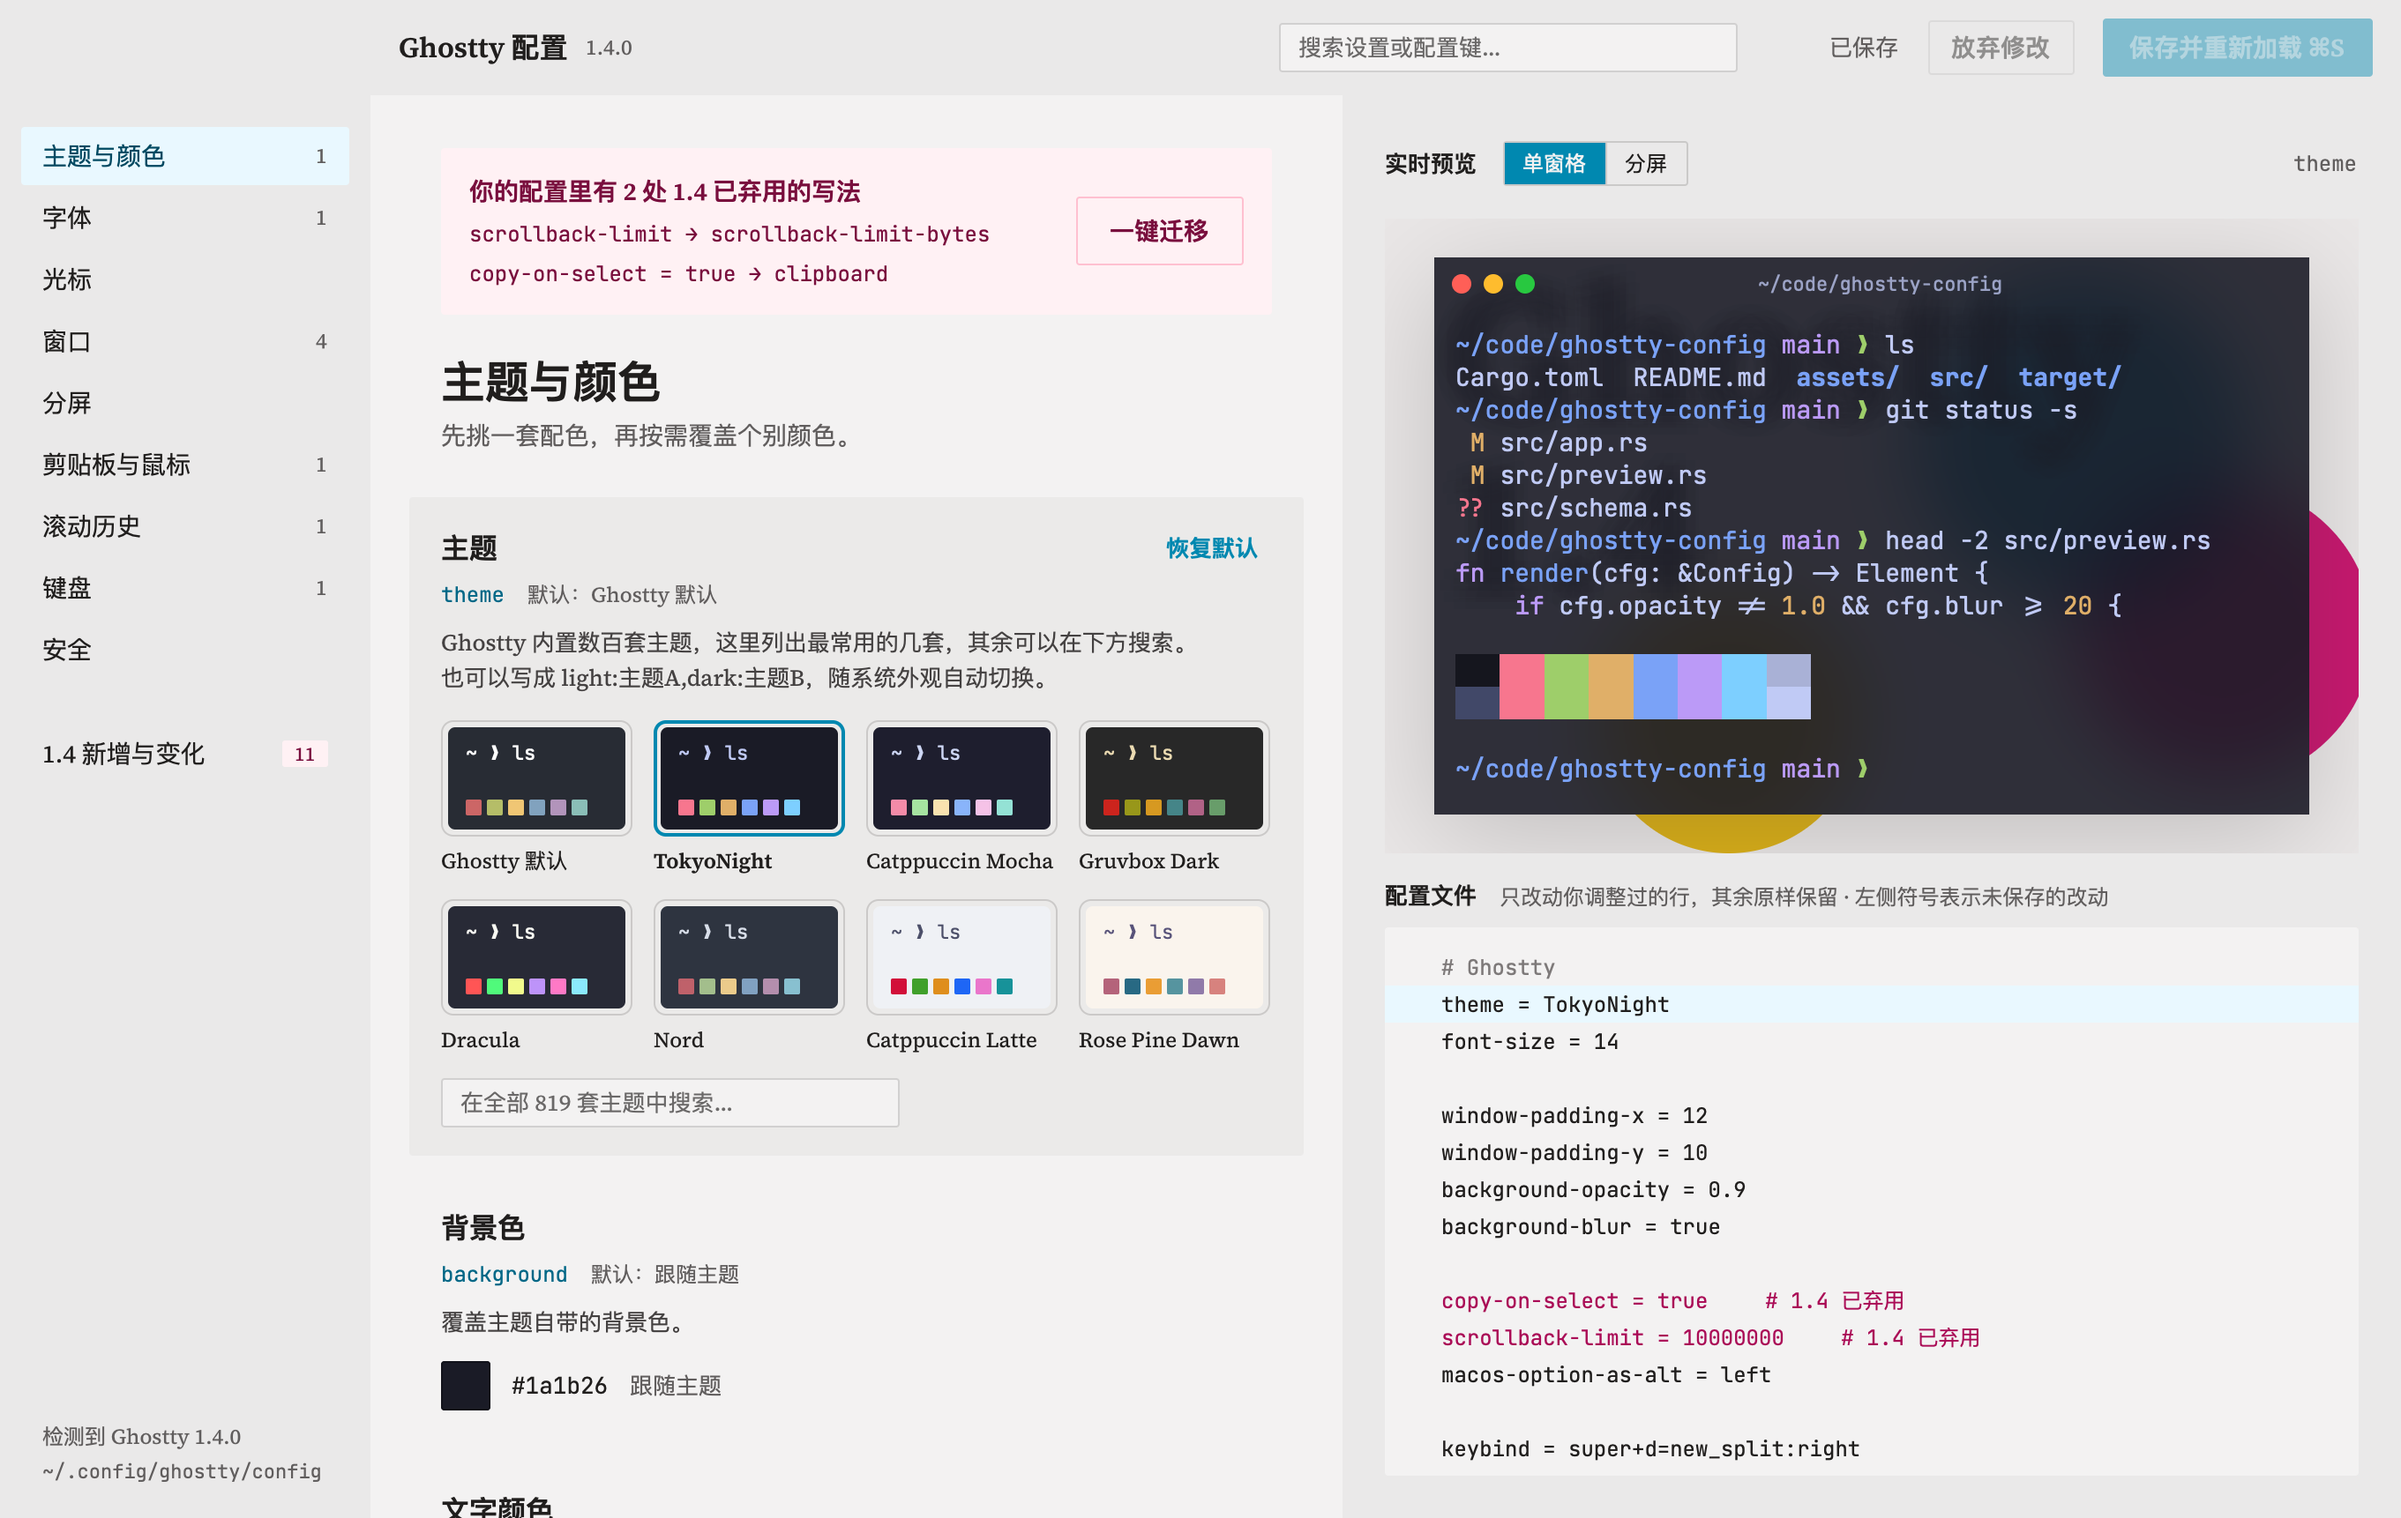
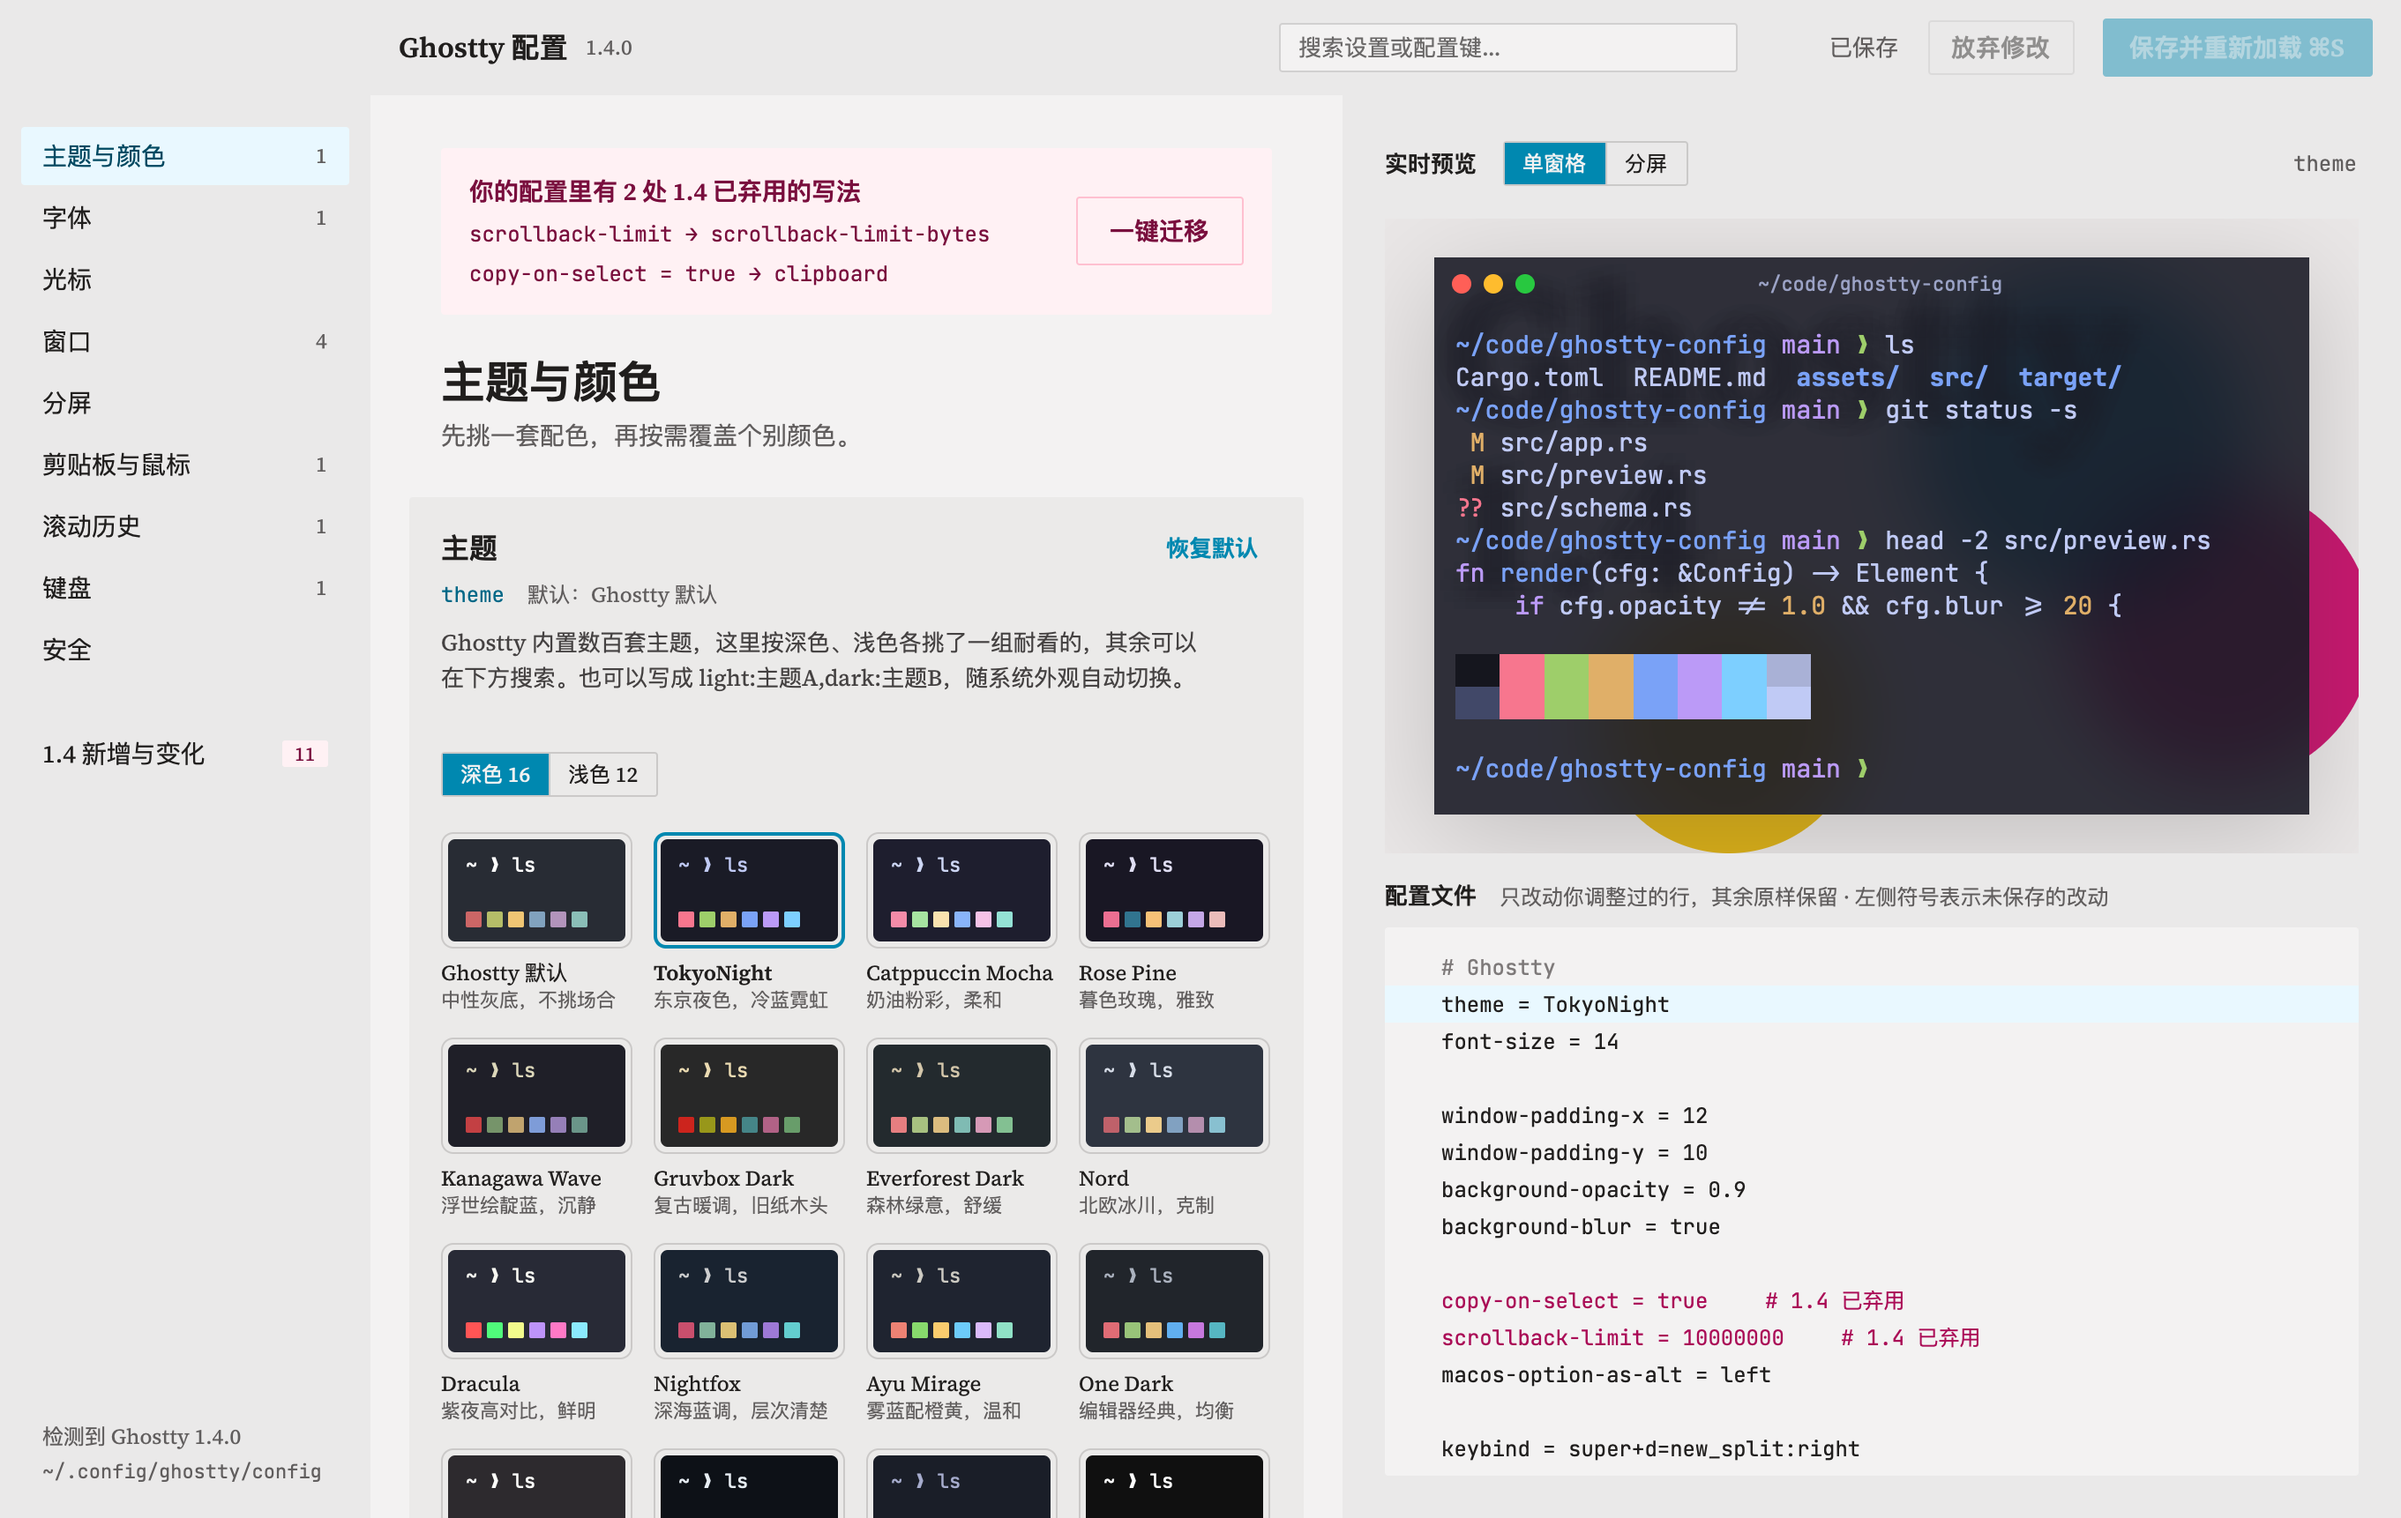
主题：按深色 16 套、浅色 12 套精选，附风格描述

Changed region(s): [[0.1874, 0.4001, 0.5309, 1.0]]

diff --git a/src/rows.rs b/src/rows.rs
@@ -12,16 +12,39 @@ use crate::kit::{Btn, SegItem, Tag, button, radio_dot, seg, tag};
 use crate::schema::{self, Kind, Num, OPTS, Opt, Val};
 use crate::theme::{MONO, Pal, PalExt as _, RADIUS_LG, RADIUS_MD, rgbc};
 
-/// The design's eight: (value, name).
-const FEATURED: &[(&str, &str)] = &[
-    ("", "Ghostty 默认"),
-    ("TokyoNight", "TokyoNight"),
-    ("Catppuccin Mocha", "Catppuccin Mocha"),
-    ("Gruvbox Dark", "Gruvbox Dark"),
-    ("Dracula", "Dracula"),
-    ("Nord", "Nord"),
-    ("Catppuccin Latte", "Catppuccin Latte"),
-    ("Rose Pine Dawn", "Rose Pine Dawn"),
+/// The curated themes: (value, name, mood). Each one a well-loved palette
+/// with its own character, spread across cool, warm, muted and vivid.
+const DARK: &[(&str, &str, &str)] = &[
+    ("", "Ghostty 默认", "中性灰底，不挑场合"),
+    ("TokyoNight", "TokyoNight", "东京夜色，冷蓝霓虹"),
+    ("Catppuccin Mocha", "Catppuccin Mocha", "奶油粉彩，柔和"),
+    ("Rose Pine", "Rose Pine", "暮色玫瑰，雅致"),
+    ("Kanagawa Wave", "Kanagawa Wave", "浮世绘靛蓝，沉静"),
+    ("Gruvbox Dark", "Gruvbox Dark", "复古暖调，旧纸木头"),
+    ("Everforest Dark Med", "Everforest Dark", "森林绿意，舒缓"),
+    ("Nord", "Nord", "北欧冰川，克制"),
+    ("Dracula", "Dracula", "紫夜高对比，鲜明"),
+    ("Nightfox", "Nightfox", "深海蓝调，层次清楚"),
+    ("Ayu Mirage", "Ayu Mirage", "雾蓝配橙黄，温和"),
+    ("Atom One Dark", "One Dark", "编辑器经典，均衡"),
+    ("Monokai Pro", "Monokai Pro", "炭黑配亮彩，活泼"),
+    ("GitHub Dark Default", "GitHub Dark", "GitHub 夜间"),
+    ("Poimandres", "Poimandres", "极简冷青，近单色"),
+    ("Vesper", "Vesper", "纯黑配桃橙，安静"),
+];
+const LIGHT: &[(&str, &str, &str)] = &[
+    ("Catppuccin Latte", "Catppuccin Latte", "拿铁奶白，粉彩"),
+    ("Rose Pine Dawn", "Rose Pine Dawn", "晨光米色，温柔"),
+    ("TokyoNight Day", "TokyoNight Day", "白昼冷蓝，清爽"),
+    ("Kanagawa Lotus", "Kanagawa Lotus", "宣纸暖白，墨色"),
+    ("Gruvbox Light", "Gruvbox Light", "复古羊皮纸"),
+    ("Everforest Light Med", "Everforest Light", "浅绿纸面，久看不累"),
+    ("Dayfox", "Dayfox", "米白配深蓝，耐看"),
+    ("Ayu Light", "Ayu Light", "明亮白底，轻快"),
+    ("Atom One Light", "One Light", "编辑器经典浅色"),
+    ("GitHub Light Default", "GitHub Light", "GitHub 日间"),
+    ("iTerm2 Solarized Light", "Solarized Light", "校准过的米黄"),
+    ("Flexoki Light", "Flexoki Light", "墨与纸，印刷质感"),
 ];
 
 pub const FONTS: &[&str] = &["JetBrains Mono", "Fira Code", "IBM Plex Mono", "Source Code Pro", "Menlo"];
@@ -332,16 +355,22 @@ impl Editor {
         let cur = v.text().to_string();
         let picked = ghostty::pick_theme(&cur, self.dark);
         let pair = picked != cur;
-        let tiles: Vec<(String, String)> = if q.is_empty() {
-            let mut t: Vec<(String, String)> = FEATURED.iter().map(|(v, n)| (v.to_string(), n.to_string())).collect();
-            if !FEATURED.iter().any(|(v, _)| *v == cur) {
+        // Which group to show: chosen, else the one the current theme is in.
+        let cur_dark =
+            if picked.is_empty() { true } else { self.theme_cache.get(&self.install, &picked).map(|t| t.bg.lum() < 0.5).unwrap_or(true) };
+        let dark = self.theme_dark.unwrap_or(cur_dark);
+        let group = if dark { DARK } else { LIGHT };
+        let tiles: Vec<(String, String, String)> = if q.is_empty() {
+            let mut t: Vec<(String, String, String)> =
+                group.iter().map(|(v, n, m)| (v.to_string(), n.to_string(), m.to_string())).collect();
+            let featured = DARK.iter().chain(LIGHT).any(|(v, _, _)| *v == cur);
+            if !featured && cur_dark == dark {
                 let name = if pair { format!("{picked}（随外观）") } else { cur.clone() };
-                t.insert(0, (cur.clone(), name));
-                t.truncate(8);
+                t.insert(0, (cur.clone(), name, "当前使用".into()));
             }
             t
         } else {
-            self.themes.iter().filter(|n| n.to_lowercase().contains(&q)).take(12).map(|n| (n.clone(), n.clone())).collect()
+            self.themes.iter().filter(|n| n.to_lowercase().contains(&q)).take(12).map(|n| (n.clone(), n.clone(), String::new())).collect()
         };
         let matches = if q.is_empty() { 0 } else { self.themes.iter().filter(|n| n.to_lowercase().contains(&q)).count() };
         let mut overrides: Vec<String> = Vec::new();
@@ -356,7 +385,7 @@ impl Editor {
         let overridden = !overrides.is_empty();
         let tile_w = ((width - 3. * 12.) / 4.).max(80.);
         let mut grid = div().flex().flex_wrap().gap_x(px(12.)).gap_y(px(14.)).mt(px(6.));
-        for (i, (val, name)) in tiles.into_iter().enumerate() {
+        for (i, (val, name, mood)) in tiles.into_iter().enumerate() {
             let colors = if val.is_empty() {
                 ghostty::default_colors()
             } else {
@@ -405,14 +434,47 @@ impl Editor {
                             ),
                     )
                     .child(
-                        div().text_size(px(12.)).line_height(relative(1.3)).when(on, |d| d.font_weight(FontWeight::SEMIBOLD)).child(name),
+                        div()
+                            .flex()
+                            .flex_col()
+                            .child(
+                                div()
+                                    .text_size(px(12.))
+                                    .line_height(relative(1.3))
+                                    .when(on, |d| d.font_weight(FontWeight::SEMIBOLD))
+                                    .child(name),
+                            )
+                            .when(!mood.is_empty(), |d| {
+                                d.child(
+                                    div()
+                                        .text_size(px(11.))
+                                        .line_height(relative(1.35))
+                                        .text_color(p.n(700))
+                                        .whitespace_nowrap()
+                                        .truncate()
+                                        .child(mood),
+                                )
+                            }),
                     ),
             );
         }
+        let groups = [(true, "深色", DARK.len()), (false, "浅色", LIGHT.len())]
+            .into_iter()
+            .map(|(d, label, n)| SegItem {
+                label: format!("{label} {n}").into(),
+                checked: dark == d,
+                new: false,
+                on_click: Box::new(cx.listener(move |this, _, _, cx| {
+                    this.theme_dark = Some(d);
+                    cx.notify();
+                })),
+            })
+            .collect();
         div()
             .flex()
             .flex_col()
             .gap(px(14.))
+            .when(q.is_empty(), |d| d.child(div().mt(px(4.)).flex().child(seg("theme-group", groups, true, p))))
             .child(grid)
             .child(
                 div()

diff --git a/src/snapshot.rs b/src/snapshot.rs
@@ -47,6 +47,7 @@ fn setup(e: &mut Editor, name: &str, window: &mut Window, cx: &mut Context<Edito
     let cat = steps.next().unwrap_or("theme");
     e.snapshot_cat(cat, window, cx);
     e.hover_locked = true;
+    e.theme_dark = None;
     e.focus = None;
     for step in steps {
         match step.split_once('=') {
@@ -68,6 +69,8 @@ fn setup(e: &mut Editor, name: &str, window: &mut Window, cx: &mut Context<Edito
             _ if step == "split" => e.split = true,
             _ if step == "single" => e.split = false,
             _ if step == "save" => e.save(cx),
+            _ if step == "dark" => e.theme_dark = Some(true),
+            _ if step == "light" => e.theme_dark = Some(false),
             _ if step == "toast" => e.show_toast("已写入配置，Ghostty 已重新加载", false, cx),
             _ => eprintln!("snapshot: unknown step {step}"),
         }

diff --git a/src/schema.rs b/src/schema.rs
@@ -360,7 +360,7 @@ pub const OPTS: &[Opt] = &[
         "主题",
         Kind::Theme,
         Def::Text(""),
-        "Ghostty 内置数百套主题，这里列出最常用的几套，其余可以在下方搜索。也可以写成 light:主题A,dark:主题B，随系统外观自动切换。",
+        "Ghostty 内置数百套主题，这里按深色、浅色各挑了一组耐看的，其余可以在下方搜索。也可以写成 light:主题A,dark:主题B，随系统外观自动切换。",
     ),
     o("background", "theme", "背景色", Kind::Color, Def::Color, "覆盖主题自带的背景色。"),
     o("foreground", "theme", "文字颜色", Kind::Color, Def::Color, "覆盖主题的默认文字颜色。"),

diff --git a/src/app.rs b/src/app.rs
@@ -47,6 +47,8 @@ pub struct Editor {
     pub cat: &'static str,
     pub search: Entity<InputState>,
     pub theme_search: Entity<InputState>,
+    /// The theme group shown: dark or light; `None` follows the current theme.
+    pub theme_dark: Option<bool>,
     /// The option under the pointer.
     pub focus: Option<&'static str>,
     pub split: bool,
@@ -138,6 +140,7 @@ impl Editor {
             cat: std::env::var("GHOSTTY_CONFIG_CAT").ok().and_then(|c| cat_id(&c)).unwrap_or("theme"),
             search,
             theme_search,
+            theme_dark: None,
             focus: None,
             split: false,
             blink_on: true,

diff --git a/README.md b/README.md
@@ -14,7 +14,8 @@ Ghostty 配置文件的可视化编辑器：左边挑选项，右边实时预览
 - **读写真实配置文件**：按 Ghostty 的查找顺序定位配置（`~/Library/Application Support/com.mitchellh.ghostty/config.ghostty` → `config`，再到 `$XDG_CONFIG_HOME/ghostty/config.ghostty` → `config`）。只改动你调过的那几行，注释、顺序、`keybind` 和所有本工具不认识的选项原样保留；恢复默认的项直接删掉那一行；新加的行放在同类选项旁边。配置文件是符号链接（dotfiles）时写入它指向的文件。
 - **保存前校验**：先写到同目录的临时文件，交给 `ghostty +validate-config` 检查，通过才替换；Ghostty 拒绝时不动原文件，并显示错误。每次启动后的第一次保存会把原文件备份为 `config.bak-时间戳`。
 - **保存即重新加载**：向正在运行的 Ghostty 发送 `SIGUSR2`。只在确认这个 Ghostty 会处理该信号时才发送（检查二进制里有没有对应的处理代码，1.4 有）；否则提示在 Ghostty 里按 ⌘ + Shift + , 手动重新加载。`background-opacity` 这类需要重启的项、`macos-titlebar-style` 这类只对新窗口生效的项会在提示里单独说明。
-- **实时预览**：主题配色（读取 Ghostty.app 自带的 800 多套主题和 `~/.config/ghostty/themes`）、字体与连字、字号行高、光标形状/颜色/闪烁、标题栏样式、内边距（悬停时显示文字区域虚线框）、背景透明与模糊/玻璃效果、分屏的分隔线、拖动手柄和非焦点变暗。
+- **主题**：按深色 16 套、浅色 12 套精选常用的好看主题，每套附一句风格描述；其余 800 多套（含 `~/.config/ghostty/themes`）可搜索。
+- **实时预览**：主题配色、字体与连字、字号行高、光标形状/颜色/闪烁、标题栏样式、内边距（悬停时显示文字区域虚线框）、背景透明与模糊/玻璃效果、分屏的分隔线、拖动手柄和非焦点变暗。
 - **配置文件面板**：显示将要写入的完整文件，`~` 改动、`+` 新增、`−` 删除；悬停某项时自动滚到它在文件里的那一行。
 - **1.4 弃用写法迁移**：识别 `scrollback-limit`（已改名为 `scrollback-limit-bytes`）和 `copy-on-select = true/false`，一键改成新写法。
 - **外部修改**：编辑期间文件被别的程序改了，会自动重新读取，未保存的改动保留在上面；保存时如果发现文件变过，也会先合并再写。
